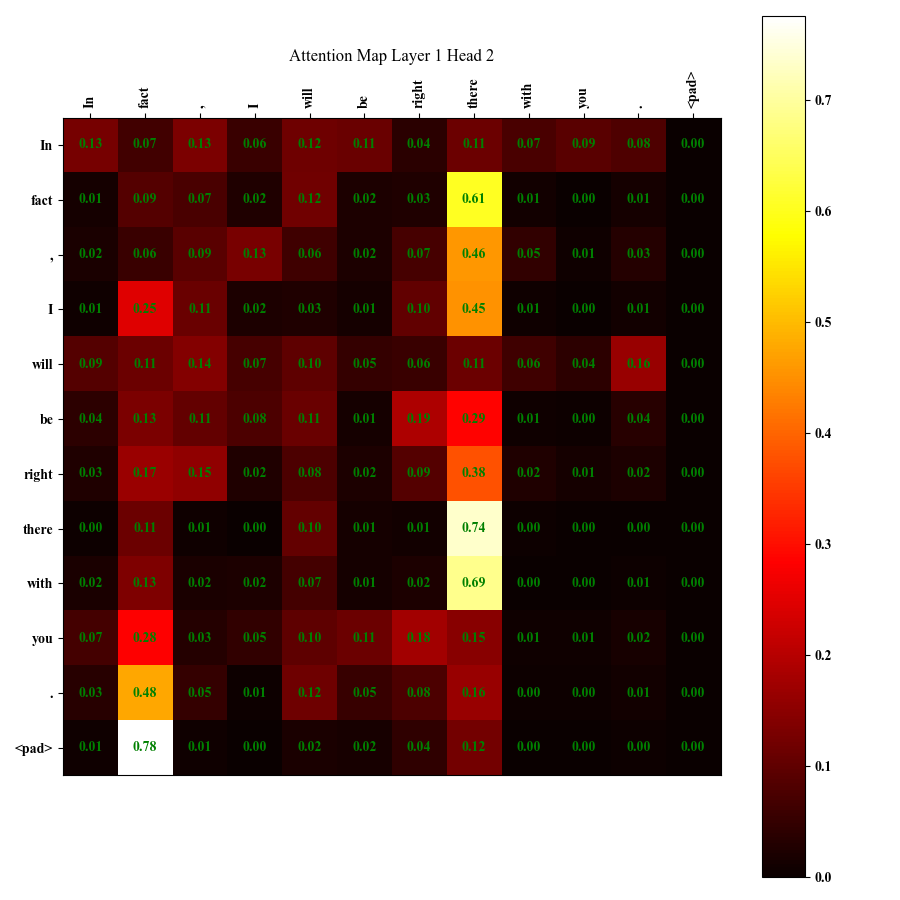
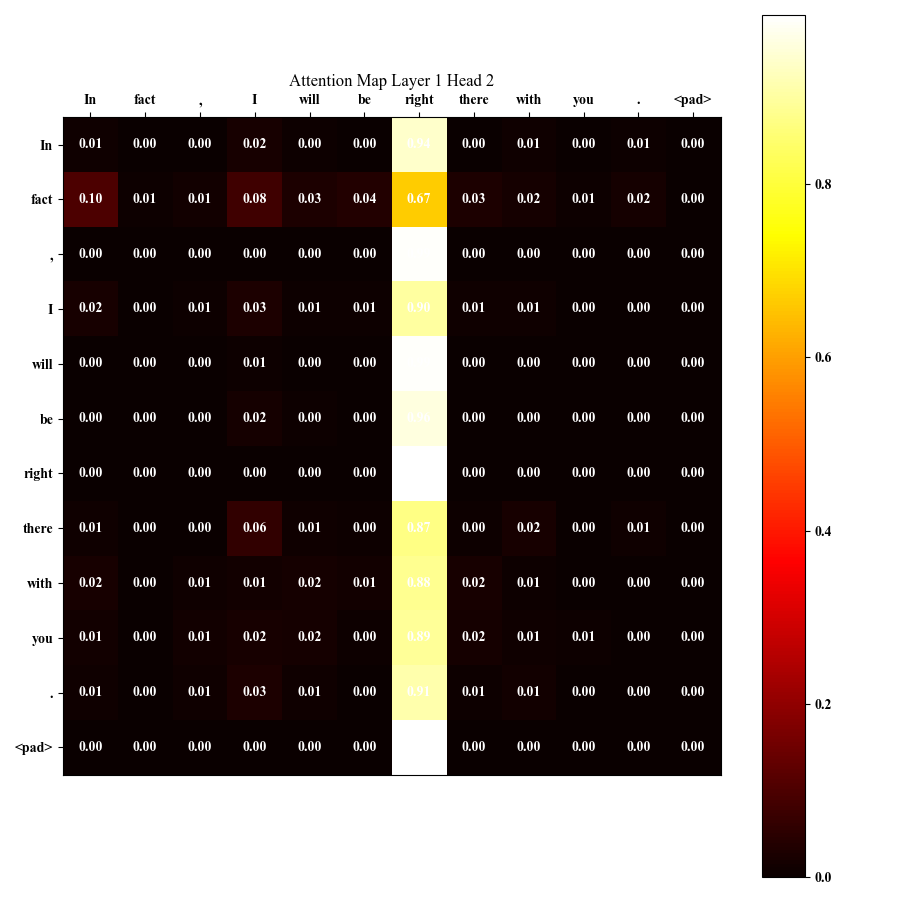
color = white and do not rotate y

diff --git a/PA2/utilities.py b/PA2/utilities.py
@@ -1,6 +1,15 @@
 import matplotlib.pyplot as plt
 import torch
 import numpy as np
+import os
+
+
+def ensure_directory_exists(directory_path):
+    if not os.path.exists(directory_path):
+        os.makedirs(directory_path)
+        print(f"Directory '{directory_path}' created.")
+    else:
+        print(f"Directory '{directory_path}' already exists.")
 
 
 class Utilities:
@@ -52,7 +61,7 @@ class Utilities:
 
                 ax.set_xticks(np.arange(len(words)))
                 ax.set_yticks(np.arange(len(words)))
-                ax.set_xticklabels(words, rotation=90)
+                ax.set_xticklabels(words)
                 ax.set_yticklabels(words)
 
                 for q in range(len(words)):
@@ -65,6 +74,7 @@ class Utilities:
                 plt.tight_layout()
                 
                 # Save the plot
+                ensure_directory_exists(directory_path="./attention_maps")
                 plt.savefig(f"./attention_maps/attention_map_layer_{j + 1}_head_{head_idx + 1}.png")
                 
                 # Show the plot
